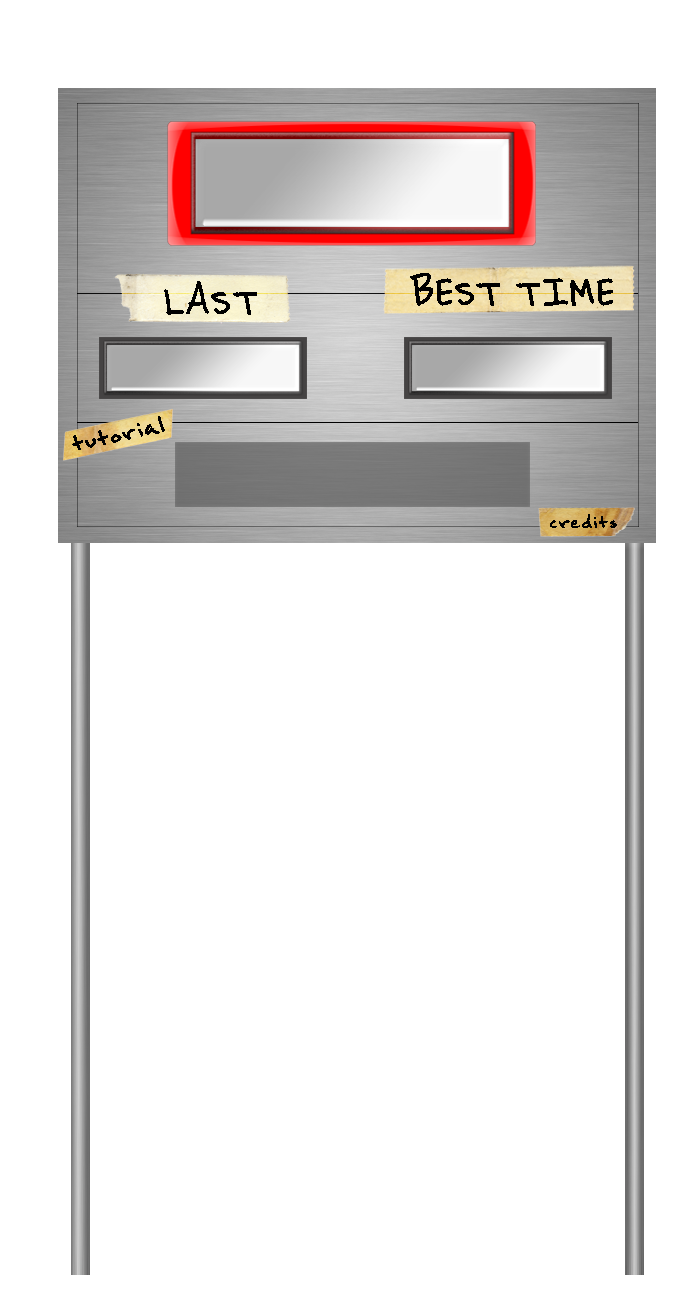
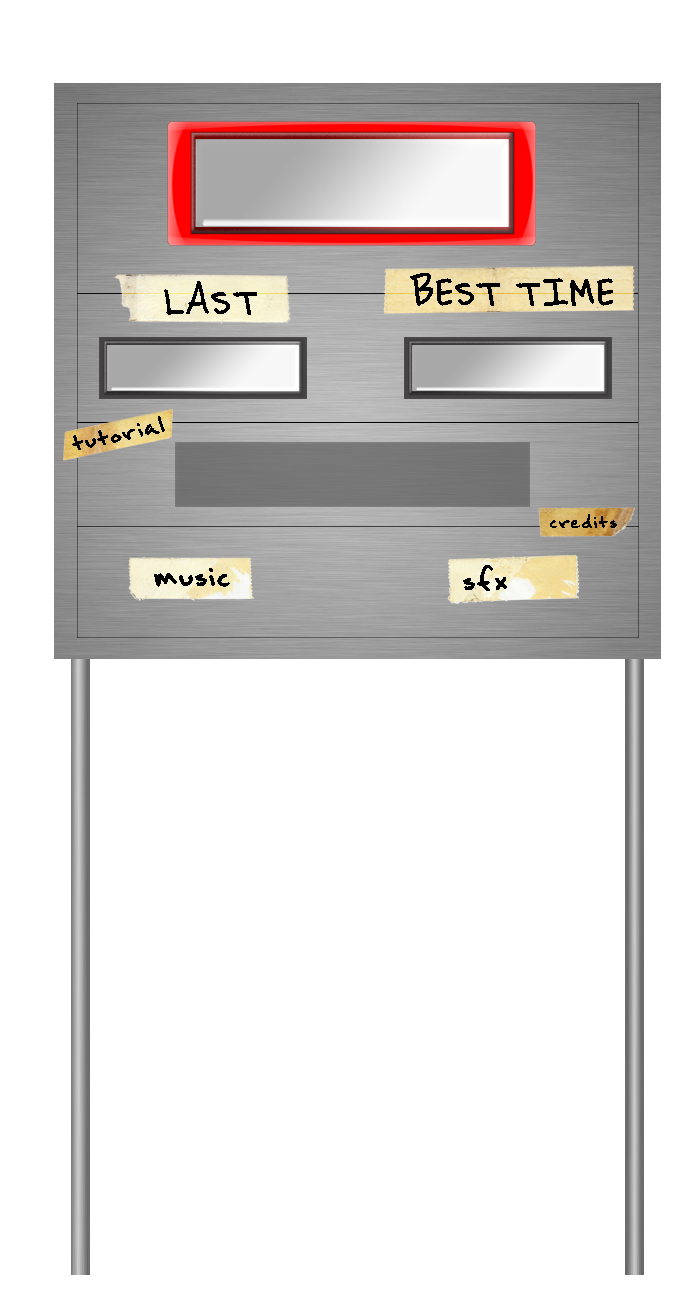
add toggle switches with playerprefs for music and sfx control

Changed region(s): [[0.06, 0.0615, 0.96, 0.5231], [0.3, 0.1846, 0.75, 0.3077]]

diff --git a/Assets/ToggleImage.cs b/Assets/ToggleImage.cs
@@ -1,0 +1,29 @@
+using UnityEngine;
+using System.Collections;
+using UnityEngine.UI;
+
+public class ToggleImage : MonoBehaviour {
+
+	public AudioClip toggleSound;
+	public string settingName;
+
+	AudioSource audioSource;
+
+	void Start () {
+		audioSource = GameObject.Find ("ScorePanel").GetComponent<AudioSource>();
+		GetComponent<Toggle>().isOn = (PlayerPrefs.GetInt(settingName) == 1);
+	}
+	
+	void Update () {	
+	}
+
+	public void OnValueChanged(bool toggleOn){
+		audioSource.PlayOneShot(toggleSound);
+		if(toggleOn){
+			PlayerPrefs.SetInt(settingName, 1);
+		} else {
+			PlayerPrefs.SetInt(settingName, 0);
+
+		}
+	}
+}

diff --git a/README.md b/README.md
@@ -7,7 +7,7 @@
 * Animate arrow shape when jumping
 * Better death indications: sound, on-screen graphics over frozen screen, something
 * Implement ducking for music (?)
-* add controls for turning music and sfx off
+* Enforce music and sfx controls
 
 smoke puff attribution credit
 http://powstudios.com/content/smoke-animation-pack-1
